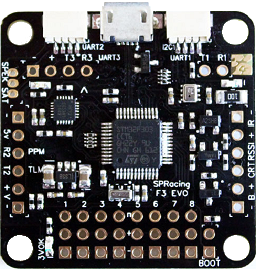
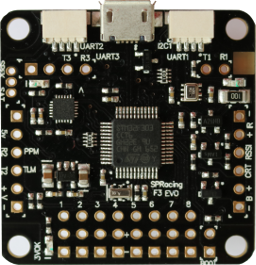
Fixed hwsprf3e.xml - new line for each option (USB_VCPPort)
Fixed GCS plugin
- fixed "uart" in setInputType

Replaced board picture by own photo

diff --git a/ground/gcs/src/plugins/boards_dronin/sprf3e.cpp b/ground/gcs/src/plugins/boards_dronin/sprf3e.cpp
@@ -112,16 +112,16 @@ bool Sprf3e::setInputType(Core::IBoardType::InputType type)
 
     switch(type) {
     case INPUT_TYPE_DSM:
-        settings.Uart1 = HwSprf3e::UART2_DSM;
+        settings.Uart2 = HwSprf3e::UART2_DSM;
         break;    
     case INPUT_TYPE_SRXL:
-        settings.Uart1 = HwSprf3e::UART2_SRXL;
+        settings.Uart2 = HwSprf3e::UART2_SRXL;
         break;
     case INPUT_TYPE_HOTTSUMD:
         settings.Uart2 = HwSprf3e::UART2_HOTTSUMD;
         break;
     case INPUT_TYPE_HOTTSUMH:
-        settings.Uart1 = HwSprf3e::UART2_HOTTSUMD;
+        settings.Uart2 = HwSprf3e::UART2_HOTTSUMH;
         break;
     case INPUT_TYPE_PPM:
         settings.Uart2 = HwSprf3e::UART2_PPM;
@@ -130,13 +130,13 @@ bool Sprf3e::setInputType(Core::IBoardType::InputType type)
         settings.Uart2 = HwSprf3e::UART2_SBUS;
         break;
     case INPUT_TYPE_SBUSNONINVERTED:
-        settings.Uart1 = HwSprf3e::UART2_SBUSNONINVERTED;
+        settings.Uart2 = HwSprf3e::UART2_SBUSNONINVERTED;
         break;
     case INPUT_TYPE_IBUS:
-        settings.Uart1 = HwSprf3e::UART2_IBUS;
+        settings.Uart2 = HwSprf3e::UART2_IBUS;
         break;
     case INPUT_TYPE_TBSCROSSFIRE:
-        settings.Uart1 = HwSprf3e::UART2_TBSCROSSFIRE;
+        settings.Uart2 = HwSprf3e::UART2_TBSCROSSFIRE;
         break;
     default:
         return false;
